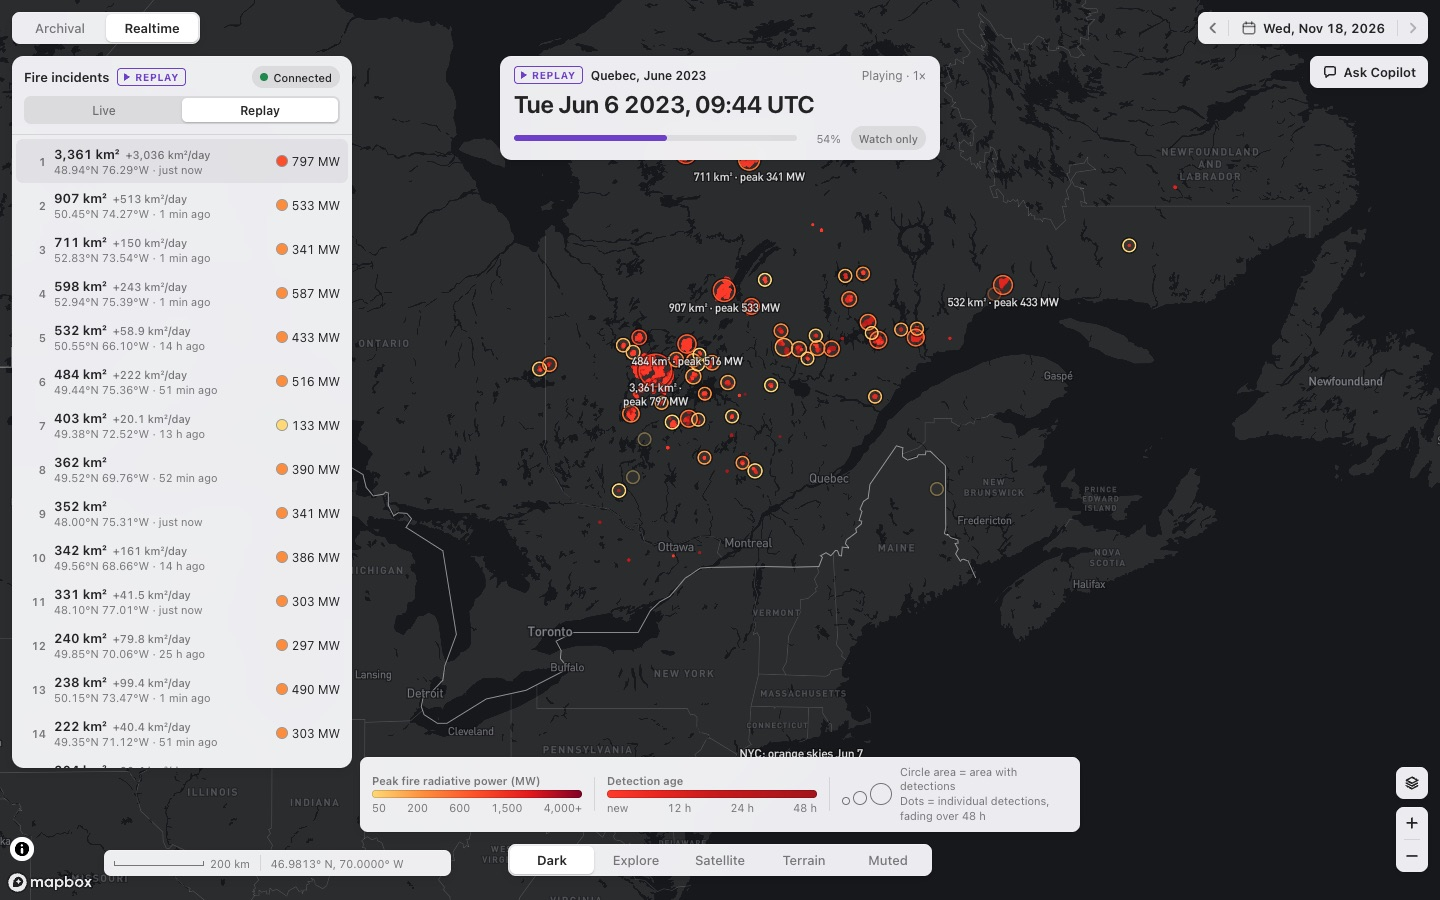
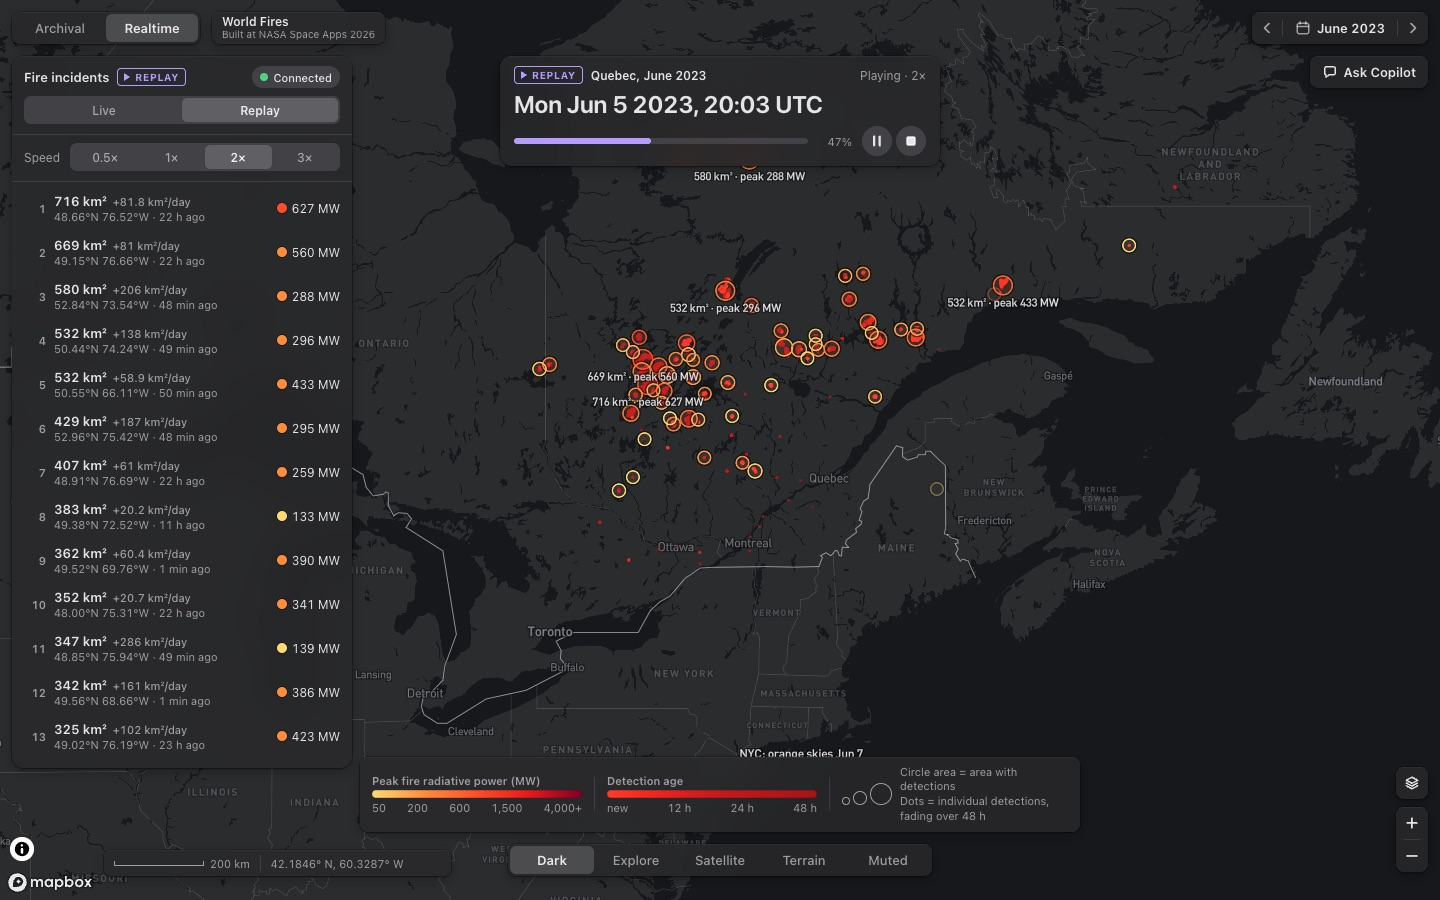
deploy: world-fires.pages.dev origins, hourly cron; docs for the rename
- ALLOWED_ORIGINS on both Workers: localhost, world-fires.pages.dev and
  its preview subdomains.
- realtime-worker cron hourly.
- README: new title, demo link, cost controls; ingest-worker marked as
  not deployed; new screenshot.

diff --git a/apps/realtime-worker/REALTIME.md b/apps/realtime-worker/REALTIME.md
@@ -4,7 +4,7 @@ This worker turns NASA FIRMS hotspots into **fire incidents** and streams them t
 
 | Stream | Input | Use |
 |---|---|---|
-| `live` | FIRMS NRT polled every 30 min (VIIRS S-NPP, NOAA-20, NOAA-21, MODIS) | The Realtime tab |
+| `live` | FIRMS NRT polled hourly, last 2 UTC days (VIIRS S-NPP, NOAA-20, NOAA-21, MODIS); detections and quiet incidents are deleted after 48 h | The Realtime tab |
 | `replay:<id>` | A stored historical scenario played back fast (default: Quebec, 1–10 June 2023, in about 75 s) | Demos, and development without live fires |
 
 Streams never mix. All time logic (the active window, growth, inactive status) uses **detection time** (`acq_date` + `acq_time`, UTC), so a replay behaves exactly like live. "Now" for a stream is its **stream time**: the latest detection time it has seen.
@@ -73,7 +73,7 @@ Always unwrap batches first. The server coalesces updates and sends at most one 
 | `incident.brief` | `{ id, brief: Brief }` (below) | An AI brief is ready, or was refreshed after the area doubled |
 | `detections` | `{ points: [lon, lat, frpMw, tMs, conf][], replace?: true }` | New detections inside your viewport. `conf` is 0 (low), 1 (nominal) or 2 (high). With `replace: true`, the points replace your heat layer (on connect and after a viewport change); otherwise append them. |
 | `clock` | `{ t: number }` | Replay only: stream time advanced (each tick, about 2/s) |
-| `replay.status` | `{ status: "running" \| "paused" \| "stopped" \| "done", progress: 0..1 }` | Replay only |
+| `replay.status` | `{ status: "running" \| "paused" \| "stopped" \| "done", progress: 0..1, speed }` | Replay only |
 | `error` | `{ message }` | A bad client message |
 
 `Brief`:
@@ -157,7 +157,7 @@ Map layers:
 
 ## 3. REST
 
-All responses are JSON. Errors are `{ error: { code, message } }` with status 400, 404 or 500. CORS is limited to `ALLOWED_ORIGINS`.
+All responses are JSON. Errors are `{ error: { code, message } }` with status 400, 404, 409, 429 or 500. CORS is limited to `ALLOWED_ORIGINS`.
 
 | Method and path | Purpose |
 |---|---|
@@ -167,9 +167,15 @@ All responses are JSON. Errors are `{ error: { code, message } }` with status 40
 | `POST /realtime/replay` body `{ scenario?: "quebec-2023-06", speed?: number }` | Starts a replay and returns `ReplayInfo` with `reused: false` (201). Only **one replay runs at a time** across the whole worker: if one is already running (or paused) for the same scenario, you get that one back with `reused: true` (200) and `speed` is ignored; if a different scenario is running you get 409 `replay_busy`. `speed` is stream seconds per real second; the default `REPLAY_DEFAULT_SPEED` is 12000, so 10 days take about 75 s. Use `stream` from the response for the WebSocket. |
 | `GET /realtime/replay/:id` | `ReplayInfo` plus `clusterer` stats |
 | `POST /realtime/replay/:id/pause` · `/resume` · `/stop` | Replay control. Returns `ReplayInfo`. A replay paused for more than 30 min (since it started) gives up its slot to the next start. |
+| `POST /realtime/replay/:id/speed` body `{ speed: number }` | Changes the speed of a running or paused replay. Returns `ReplayInfo`; viewers get the new speed in `replay.status`. |
 | `GET /realtime/ws?stream=` | WebSocket (§2) |
 
-Starting a replay (`POST /realtime/replay`) is **public**: it reuses the running replay, only one replay runs at a time, and replay briefs come from the brief cache after the first run, so it costs nothing to repeat. When the `REPLAY_TOKEN` secret is set (production), `pause`, `resume` and `stop` need the header `x-replay-token: <token>`, otherwise 401 `unauthorized`. `GET` routes and the WebSocket stay open. Locally the secret is unset and no header is needed.
+Every replay route is **public**: any visitor can start, pause, resume, stop and change speed. The limits are server side:
+
+- One replay runs at a time. Starting the scenario that is already running joins it.
+- A new replay starts at most once per 30 s across the whole worker (`REPLAY_START_COOLDOWN_MS` in `src/limits.ts`). A start inside that window gets 429 `replay_cooldown` with `Retry-After`. Joining the running replay is not limited.
+- Replays make no new model calls once the scenario's brief cache is full (see the brief cache below).
+- An ended replay deletes its storage after 1 h (`REPLAY_PURGE_AFTER_MS`): the Replay, Clusterer, Incident and LiveHub Durable Objects of that stream.
 
 `ReplayInfo`:
 
@@ -207,11 +213,20 @@ Budgets (every run makes one AI call; re-briefs count):
 - `ENRICH_MAX_PER_STREAM` (10 in the demo deployment; 30 when unset): per replay stream, and per rolling 24 h (wall clock) for `live`.
 - `BRIEF_DAILY_MAX` (50 in the demo deployment, about 1,750 neurons; 60 when unset): across **all** streams per rolling 24 h, tracked in the `Control` Durable Object.
 
-**Replay brief cache.** Replays are deterministic, so a brief written during one replay is reused by later replays of the same scenario. The key in `REPLAY_KV` is `brief-cache/v1/<scenario>/<first detection id of the incident>/<level>` (level 0 = first brief, n = n-th area doubling). A hit skips the model call and does **not** count against `BRIEF_DAILY_MAX` (it still counts toward the per-stream cap, because the Workflow still fetches weather and places). Cached briefs carry `cached: true` and keep the `asOf` of the replay that wrote them; because tick timing varies a little between runs, their numbers can differ slightly from the incident's state at that moment. Bump `BRIEF_CACHE_VERSION` in `src/enrich/brief.ts` when the prompt changes. Clusterer counters `brief_cache_hits` / `brief_cache_misses` (in `GET /realtime/replay/:id`) give the hit rate.
+**Replay brief cache.** A brief written during one replay is reused by later replays of the same scenario. The key in `REPLAY_KV` is `brief-cache/<BRIEF_CACHE_VERSION>/<scenario>/<first detection id of the incident>/<level>` (level 0 = first brief, n = n-th area doubling). A hit skips the model call and does **not** count against `BRIEF_DAILY_MAX` (it still counts toward the per-stream cap, because the Workflow still fetches weather and places). Cached briefs carry `cached: true` and keep the `asOf` of the replay that wrote them.
+
+Tick timing and speed change which incidents win the 2-per-batch dispatch slots and which doubling levels they reach, so a later run can ask for a key the first run never wrote. The Clusterer then (1) reuses another cached level of the same incident, and (2) once the scenario holds `ENRICH_MAX_PER_STREAM` cached briefs, enriches the incident without a brief (`brief.status: "skipped"`) instead of calling the model. So a scenario costs at most `ENRICH_MAX_PER_STREAM` model calls in total (10 in the demo), however often it is replayed. Bump `BRIEF_CACHE_VERSION` in `src/enrich/brief.ts` when the prompt changes. Clusterer counters `brief_cache_hits`, `brief_cache_misses` (model calls) and `brief_cache_full_skips` (in `GET /realtime/replay/:id`) show what happened.
 
 What does not fit stays queued and is retried on later batches. `GET /realtime/replay/:id` → `clusterer.enrich` and `/realtime/health` → `briefBudget` show the usage.
 
 A failed step is recorded and does not fail the run.
+
+### Storage retention
+
+- Live: each cron tick calls `Clusterer.prune(now - 48 h)`. It deletes dedupe ids older than that, every incident with no detection in 48 h (with the incidents merged into it), their cells, queued enrichments and Incident Durable Objects, and their rows in the LiveHub. Merge records older than 48 h and enrich-log rows older than 24 h go too. The LiveHub keeps map points for 48 h of stream time.
+- Replays: an ended replay deletes its Replay, Clusterer, Incident and LiveHub storage after 1 h.
+- KV: poll state is one key per source and box, overwritten on each poll. The brief cache holds at most `ENRICH_MAX_PER_STREAM` briefs per scenario and cache version.
+- R2: the code does not delete the raw NRT responses under `raw/nrt/` (about 1 MB per poll). Cap them with a bucket lifecycle rule: `npx wrangler r2 bucket lifecycle add nasa-fire-realtime raw-nrt-expiry raw/nrt/ --expire-days 2`.
 
 ```ts
 {
@@ -266,7 +281,7 @@ If the context has no stream, the tool uses `live` and the map's AOI bbox. Resul
 
 | Name | Kind | Default | Notes |
 |---|---|---|---|
-| `ALLOWED_ORIGINS` | var | see notes | Comma-separated exact origins, plus `https://*.<suffix>` entries that match exactly one subdomain label over https (Pages preview URLs; see `src/origins.ts`). No other wildcards. Deployed: `http://localhost:5173,https://fire.krishjani.com,https://unified-burn-record.pages.dev`. CORS and WebSocket origin check. |
+| `ALLOWED_ORIGINS` | var | see notes | Comma-separated exact origins, plus `https://*.<suffix>` entries that match exactly one subdomain label over https (Pages preview URLs; see `src/origins.ts`). No other wildcards. Deployed: `http://localhost:5173,https://world-fires.pages.dev,https://*.world-fires.pages.dev`. CORS and WebSocket origin check. |
 | `REPLAY_DEFAULT_SPEED` | var | `12000` | Stream seconds per real second |
 | `WATCH_BBOXES` | var | `-170,15,-50,72` | `;`-separated `w,s,e,n` boxes polled live |
 | `AI_GATEWAY_ID` | var | `nasa-fire-copilot` | Same as api-worker |
@@ -276,7 +291,6 @@ If the context has no stream, the tool uses `live` and the map's AOI bbox. Resul
 | `BRIEF_MIN_AREA_KM2` | var | `200` | Replays only brief incidents with at least this `affectedAreaKm2` |
 | `BRIEF_REASONING_EFFORT` | var | `none` | Sent to kimi models only. `""` = model default. kimi-k2.6 accepts `high` or `none` (`low`/`medium` map to `high`). |
 | `BRIEF_MAX_TOKENS` | var | `120` | Brief output budget |
-| `REPLAY_TOKEN` | secret | unset | When set, replay pause/resume/stop need `x-replay-token` (start is public). `wrangler secret put REPLAY_TOKEN` in production; leave unset locally. |
 | `FIRMS_MAP_KEY` | secret | — | `.dev.vars` locally; `wrangler secret put FIRMS_MAP_KEY` in production |
 
 Bindings: Durable Objects `CLUSTERER`, `INCIDENT`, `LIVE_HUB`, `REPLAY` and `CONTROL` (all SQLite-backed; `CONTROL` is one global instance holding the replay slot and the brief budget); KV `INGEST_STATE` and `REPLAY_KV` (replay scenarios when R2 is not bound, and the replay brief cache); R2 `REPLAY_DATA` (bucket `nasa-fire-realtime`; **optional**: comment out `r2_buckets` on an account without R2 and scenarios come from `REPLAY_KV` while the raw NRT CSV archive is skipped with a `realtime_poll_archive_skipped` log line); Queue `DETECTIONS_QUEUE` (`nasa-fire-detections`, producer and consumer); Workflow `INCIDENT_ENRICH` (`nasa-fire-incident-enrich`); `AI`; service `API` (api-worker, optional).
@@ -292,7 +306,7 @@ pnpm dev                                # :8789, --test-scheduled, shared state 
 pnpm fetch-replay-fixture               # once: Quebec archive → data/quebec-2023-06.json(.gz) → KV, or R2 if bound (local + remote)
 pnpm fetch-replay-fixture --upload-only # re-upload the existing data file without calling FIRMS
 pnpm replay-smoke                       # replay + WebSocket checks (SCENARIO, SPEED, HOST, WAIT_BRIEFS_S=120)
-curl "http://localhost:8789/__scheduled?cron=*/30+*+*+*+*"   # one live poll (or /cdn-cgi/local/scheduled)
+curl "http://localhost:8789/__scheduled?cron=0+*+*+*+*"   # one live poll and prune (or /cdn-cgi/local/scheduled)
 pnpm test && pnpm typecheck
 pnpm typegen                            # after editing wrangler.jsonc
 ```
@@ -311,9 +325,9 @@ The demo deployment runs on Krish Jani's Cloudflare account with AI Gateway `nas
 |---|---|
 | realtime-worker (`nasa-fire-realtime`) | https://nasa-fire-realtime.krishjani01.workers.dev |
 | api-worker (`nasa-fire-api`, copilot and archival API) | https://nasa-fire-api.krishjani01.workers.dev |
-| web (Pages `unified-burn-record`) | https://fire.krishjani.com |
+| web (Pages `world-fires`) | https://world-fires.pages.dev |
 
-Resources: Queue `nasa-fire-detections`, KV `FIRMS_INGEST_STATE` (binding `INGEST_STATE`, shared with api-worker; realtime keys are `realtime:poll:*`) and `REPLAY_KV`, R2 `nasa-fire-realtime` (Quebec scenario; R2 is read first), D1 `firms-nrt-cells` and Hyperdrive `firms-pg` (api-worker). Secrets: `FIRMS_MAP_KEY` and `REPLAY_TOKEN` (realtime), `TAVILY_API_KEY` (api).
+Resources: Queue `nasa-fire-detections`, KV `FIRMS_INGEST_STATE` (binding `INGEST_STATE`, shared with api-worker; realtime keys are `realtime:poll:*`) and `REPLAY_KV`, R2 `nasa-fire-realtime` (Quebec scenario; R2 is read first), D1 `firms-nrt-cells` and Hyperdrive `firms-pg` (api-worker). Secrets: `FIRMS_MAP_KEY` (realtime), `TAVILY_API_KEY` (api).
 
 `wrangler.jsonc` has no `account_id`: deploys go to the logged-in account, or `CLOUDFLARE_ACCOUNT_ID` when set.
 
@@ -322,5 +336,5 @@ Resources: Queue `nasa-fire-detections`, KV `FIRMS_INGEST_STATE` (binding `INGES
 ```sh
 pnpm fetch-replay-fixture --upload-only --store=r2   # or --store=kv
 npx wrangler deploy --dry-run && npx wrangler deploy
-HOST=nasa-fire-realtime.krishjani01.workers.dev REPLAY_TOKEN=... WAIT_BRIEFS_S=180 pnpm replay-smoke
+HOST=nasa-fire-realtime.krishjani01.workers.dev WAIT_BRIEFS_S=180 pnpm replay-smoke
 ```

diff --git a/README.md b/README.md
@@ -1,10 +1,12 @@
-# Unified Burn Record
+# Sensor-Independent Burning Activity Record
+
+Cross-calibrating MODIS and VIIRS into one sensor-independent burning activity calendar.
 
 A wildfire map and burning activity calendar that puts 25 years of MODIS and VIIRS satellite hot spots on one consistent scale, with live incident tracking and a chat assistant, running on Cloudflare.
 
-Live demo: https://fire.krishjani.com
+Live demo: https://world-fires.pages.dev
 
-![Quebec June 2023 fires in the replay: incident list, replay clock and incident clusters on the map](docs/images/quebec-replay.jpg)
+![Quebec June 2023 fires in the replay: incident list, replay speed and controls, and incident clusters on the map](docs/images/quebec-replay.jpg)
 
 Team project built at NASA Space Apps Challenge 2026 by Krish Jani, [Riddhi Raina Prasad](https://github.com/riddhixraina), and [Hemanth](https://github.com/itsmrhem). My contribution:
 
@@ -24,8 +26,8 @@ The app gives a user:
 - A burning activity calendar: a Year x Month matrix of harmonized fire activity for the US or one of its nine regions, with anomalies against the 2001 to 2025 median and CSV export.
 - An FRP record: peak Fire Radiative Power per month, labelled by sensor.
 - An archival map with fire-prone areas and region outlines. Detailed hot spots, calendars for drawn areas and the world layer need the full archive, which this deployment does not load; the map says so.
-- Live incidents: FIRMS near-real-time detections over North America, polled on a cron and grouped into incidents, each with weather, nearby places, historical context and a short AI brief.
-- A replay of the June 2023 Quebec fires through the same pipeline at high speed.
+- Live incidents: FIRMS near-real-time detections over North America, polled hourly and grouped into incidents, each with weather, nearby places, historical context and a short AI brief. The live feed covers the last 48 hours.
+- A replay of the June 2023 Quebec fires through the same pipeline at high speed. Any visitor can start, pause, stop and change its speed.
 - A copilot: a chat assistant that reads the current map view. Its live-incident tool reads the realtime stream. Its calendar and hot spot tools return demo data, and every answer that uses them says so.
 
 ## Architecture
@@ -51,14 +53,14 @@ flowchart LR
   rt --> r2[("R2 / KV replay scenarios")]
   rt --> kv
 
-  cronIng["Cron every 3 h"] --> ing["ingest-worker<br/>nasa-fire-ingest"]
+  cronIng["Cron every 3 h"] --> ing["ingest-worker<br/>nasa-fire-ingest<br/>(not deployed in the demo)"]
   ing -- "FIRMS NRT" --> d1
   ing -- "FIRMS SP" --> hd
   ing --> kv
   backfill["scripts/backfill<br/>(run locally)"] --> pg
 ```
 
-The web app is a static site on Pages that talks to two Workers. The api-worker serves the archival API from Postgres (through Hyperdrive) and hosts the chat copilot, one Durable Object per chat session. The realtime-worker polls FIRMS on a cron, sends detections through a Queue to a Clusterer Durable Object that groups them into incidents, and pushes updates to browsers over WebSockets. New or growing incidents start an enrichment Workflow that calls Open-Meteo, OpenStreetMap place lookups, the api-worker (for the historical calendar) and Workers AI. The ingest-worker keeps a rolling 92-day near-real-time table in D1 and moves older data into Postgres. The historical archive is built offline by `scripts/backfill` and loaded into Postgres.
+The web app is a static site on Pages that talks to two Workers. The api-worker serves the archival API from Postgres (through Hyperdrive) and hosts the chat copilot, one Durable Object per chat session. The realtime-worker polls FIRMS hourly, sends detections through a Queue to a Clusterer Durable Object that groups them into incidents, and pushes updates to browsers over WebSockets. New or growing incidents start an enrichment Workflow that calls Open-Meteo, OpenStreetMap place lookups, the api-worker (for the historical calendar) and Workers AI. The ingest-worker keeps a rolling 92-day near-real-time table in D1 and moves older data into Postgres. The historical archive is built offline by `scripts/backfill` and loaded into Postgres.
 
 ## Cloudflare products used
 
@@ -145,22 +147,22 @@ pnpm dev:web                    # http://localhost:5173
    node --env-file=.env scripts/backfill/src/cli.ts load --all --summary-only --prone
    ```
    The full load (detections and cell-days, several GB) needs the backfill outputs regenerated from FIRMS first; see [scripts/backfill/README.md](scripts/backfill/README.md).
-3. Set secrets with `npx wrangler secret put`: `FIRMS_MAP_KEY` and optionally `REPLAY_TOKEN` on realtime-worker, optionally `TAVILY_API_KEY` on api-worker, `FIRMS_MAP_KEY` on ingest-worker.
+3. Set secrets with `npx wrangler secret put`: `FIRMS_MAP_KEY` on realtime-worker, optionally `TAVILY_API_KEY` on api-worker, `FIRMS_MAP_KEY` on ingest-worker.
 4. Deploy the Workers. The api-worker and realtime-worker bind each other, so the first deploy on a new account deploys realtime-worker without its `services` block, then api-worker, then realtime-worker again with the full config.
 5. Upload the replay scenario: `pnpm --filter realtime-worker fetch-replay-fixture --store=r2` (or `--store=kv`).
-6. Put the Worker URLs in `apps/web/.env.production`, then build and deploy the web app:
+6. Put the Worker URLs in `apps/web/.env.production` and the site origin in `ALLOWED_ORIGINS` of both Workers, then build and deploy the web app:
    ```sh
    VITE_MAPBOX_TOKEN=<public token> pnpm --filter web build
-   npx wrangler pages deploy apps/web/dist --project-name unified-burn-record --branch main
+   cd apps/web && npx wrangler pages deploy dist --project-name world-fires --branch main
    ```
 
 ## Demo cost controls
 
 The public demo runs with these limits:
 
-- Live FIRMS polling every 30 minutes over North America.
+- Live FIRMS polling once an hour over North America. Live detections and quiet incidents are deleted after 48 hours, and an ended replay deletes its storage after 1 hour.
 - AI incident briefs: at most 50 per day across all streams (`BRIEF_DAILY_MAX`) and 10 per stream (`ENRICH_MAX_PER_STREAM`), 120 output tokens each, reasoning off.
-- Replay: one replay at a time; briefs for a replay are cached after the first run. Pause, resume and stop need `REPLAY_TOKEN`.
+- Replay: open to every visitor, with no key. One replay runs at a time, and starting it while it runs joins it. A new replay can start at most once every 30 seconds across all visitors. Briefs are cached per scenario: the Quebec replay makes at most 10 model calls in total, and later runs reuse the cached briefs with no new calls.
 - Chat: reasoning off, at most 8 model steps and 4096 output tokens per turn, and an AI Gateway rate limit of 60 requests per minute with spend limits of $2 a day and $5 a month.
 - The ingest-worker is not deployed, so there is no 3-hourly ingest cron.
 

diff --git a/apps/api-worker/CHAT.md b/apps/api-worker/CHAT.md
@@ -71,7 +71,7 @@ Both turns also FAIL on a bare (plain-text) URL that no web tool returned and on
 | `WEB_SEARCH_PROVIDER` | var | `tavily` | `tavily` or `cloudflare`. |
 | `TAVILY_API_KEY` | secret | — | Needed for `tavily`. If it is missing, `web_search` is disabled with a warning; `web_fetch` still works. |
 | `FIRE_DATA_SOURCE` | var | `mock` | Only `mock` exists today (see below). |
-| `ALLOWED_ORIGINS` | var | see notes | Comma-separated exact origins, plus `https://*.<suffix>` entries that match exactly one subdomain label over https (Pages preview URLs; see `src/origins.ts`). No other wildcards. Deployed: `http://localhost:5173,https://fire.krishjani.com,https://unified-burn-record.pages.dev`. Also enforced on the agent WebSocket (other origins get 403). |
+| `ALLOWED_ORIGINS` | var | see notes | Comma-separated exact origins, plus `https://*.<suffix>` entries that match exactly one subdomain label over https (Pages preview URLs; see `src/origins.ts`). No other wildcards. Deployed: `http://localhost:5173,https://world-fires.pages.dev,https://*.world-fires.pages.dev`. Also enforced on the agent WebSocket (other origins get 403). |
 
 **Demo setting: `CHAT_FALLBACK_MODEL=""`.** With the fallback disabled, a failing `CHAT_MODEL` call shows the user an error ("could not answer right now, please try again") instead of an answer from `glm-4.7-flash`, the only model that drifted into Chinese after the language rule was added (see the comparison below). For a public demo, an error on retry is better than a Chinese answer. Set it in `wrangler.jsonc` (`"CHAT_FALLBACK_MODEL": ""`) or with `wrangler dev --var CHAT_FALLBACK_MODEL:`. Leaving the variable out keeps the default fallback. Each turn logs `copilot_turn_done` with the model that answered, so a drifted reply can be traced to a model in the worker logs (`wrangler tail`) or in AI Gateway.
 
